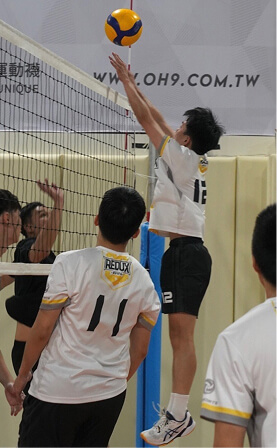
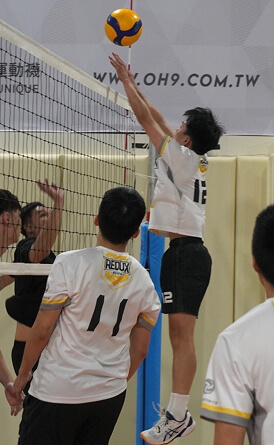
feat: 新增手機版切版

diff --git a/src/sections/root/memory/memory.jsx b/src/sections/root/memory/memory.jsx
@@ -1,7 +1,157 @@
-function Memory() {
+import Image from 'next/image'
+
+import { cn } from '@/lib/utils'
+
+function Memory({ className }) {
   return (
-    <div className="bg-blue-primary">
-      <div className="max-[375px] mx-auto w-full h-[1000px]"></div>
+    <div className={cn('bg-blue-primary', className)}>
+      <div className="relative max-w-[375px] mx-auto w-full h-[1190px]">
+        {/* On the count, every shot is the true of yourself */}
+        <div className="absolute top-[150px] left-1/2 -translate-x-1/2 z-10 w-[271px] h-[82px]">
+          <p className="text-green-primary text-left font-anton font-normal text-[22px] leading-tight">
+            ON
+            &nbsp;&nbsp;&nbsp;&nbsp;&nbsp;&nbsp;&nbsp;&nbsp;&nbsp;&nbsp;&nbsp;&nbsp;&nbsp;&nbsp;&nbsp;
+            THE
+            &nbsp;&nbsp;&nbsp;&nbsp;&nbsp;&nbsp;&nbsp;&nbsp;&nbsp;&nbsp;&nbsp;&nbsp;
+            COUNT,
+          </p>
+          <p className="text-green-primary text-left font-anton font-normal text-[22px] leading-tight">
+            EVERY
+            &nbsp;&nbsp;&nbsp;&nbsp;&nbsp;&nbsp;&nbsp;&nbsp;&nbsp;&nbsp;&nbsp;&nbsp;&nbsp;&nbsp;&nbsp;
+            SHOT
+            &nbsp;&nbsp;&nbsp;&nbsp;&nbsp;&nbsp;&nbsp;&nbsp;&nbsp;&nbsp;&nbsp;&nbsp;
+            IS
+          </p>
+          <p className="text-white text-left font-anton font-normal text-[22px] leading-tight">
+            THE TRUE OF YOURSELF
+          </p>
+        </div>
+
+        {/* 球場上每一次喊聲，都是你・真實的樣子 */}
+        <div className="absolute top-[264px] right-8 z-10 flex flex-row">
+          <p
+            style={{ writingMode: 'vertical-rl' }}
+            className="text-white text-nowrap font-noto-sans-tc font-bold text-xl leading-tight tracking-[0.3em]"
+          >
+            都是你・<span className="text-orange-primary">真實的樣子</span>
+          </p>
+          <p
+            style={{ writingMode: 'vertical-rl' }}
+            className="text-white text-nowrap font-noto-sans-tc font-bold text-xl leading-tight tracking-[0.3em]"
+          >
+            球場上每一次喊聲
+          </p>
+        </div>
+
+        {/* 這裡只留下 敢贏的人 */}
+        <div className="absolute top-[650px] right-[100px] z-10">
+          <p className="text-white text-nowrap font-noto-sans-tc font-extrabold text-[45px] leading-tight">
+            這裡&nbsp;&nbsp;只留下
+          </p>
+          <p className="text-orange-primary text-nowrap font-noto-sans-tc font-extrabold text-[45px] leading-tight">
+            敢贏的人
+          </p>
+        </div>
+
+        {/* Deco-01 */}
+        <div className="absolute top-[460px] left-[146px] z-10">
+          <p className="absolute left-0 top-0 w-[10px] h-[10px] bg-white" />
+          <p className="absolute left-[20px] top-[28px] w-[14px] h-[14px] bg-white" />
+          <p className="absolute z-20 left-[20px] top-[48px] w-[33px] h-[107px] bg-[linear-gradient(160deg,_#71F57C_0%,_rgba(113,245,124,0)_62%)]" />
+          <p className="absolute left-[8px] top-[88px] w-[22px] h-[22px] bg-[#70EEEA]" />
+        </div>
+
+        {/* Deco-02 */}
+        <div className="absolute top-[760px] left-[254px] z-10">
+          <p className="absolute z-10 left-1 top-0 w-[10px] h-[10px] bg-white" />
+          <p className="absolute left-[8px] -top-[20px] w-[25px] h-[58px] bg-[linear-gradient(180deg,_#FA7025_10%,_rgba(250,112,37,0)_62%)]" />
+        </div>
+
+        {/* Deco-03 */}
+        <div className="absolute top-[872px] left-[174px] z-10">
+          <p className="absolute z-10 left-1 top-0 w-[10px] h-[26px] bg-orange-primary" />
+          <p className="absolute z-10 -left-[36px] top-0 w-[35px] h-[26px] bg-orange-primary" />
+          <p className="absolute z-20 -left-[202px] top-0 w-[160px] h-[26px] bg-[linear-gradient(-90deg,_#FA7025_0%,_#60A0FF_45%,_rgba(85,187,227,0)_100%)]" />
+        </div>
+
+        {/* Deco-04 */}
+        <div className="absolute top-[1062px] left-[42px] z-20">
+          <p className="absolute left-0 top-0 w-[14px] h-[14px] bg-white" />
+          <p className="absolute z-20 left-0 top-5 w-[33px] h-[107px] bg-[linear-gradient(160deg,_#60A0FF_0%,_rgba(96,160,255,0)_62%)]" />
+          <p className="absolute -left-[12px] top-[60px] w-[22px] h-[22px] bg-[#70EEEA]" />
+          <p className="absolute left-[26px] top-[90px] w-[10px] h-[10px] bg-white" />
+        </div>
+
+        <div className="aspect-[274/445] w-[150px] absolute z-0 left-0 top-[266px]">
+          <Image
+            src="/images/picture/07.jpg"
+            alt="main-bg"
+            className="object-cover w-full"
+            width={274}
+            height={445}
+          />
+        </div>
+
+        <div className="aspect-square w-[81px] absolute z-0 left-[190px] top-[450px]">
+          <Image
+            src="/images/picture/08.jpg"
+            alt="main-bg"
+            className="object-cover w-full"
+            width={162}
+            height={16}
+          />
+        </div>
+
+        <div className="aspect-[143/204] w-[73px] absolute z-0 left-[290px] top-[512px]">
+          <Image
+            src="/images/picture/09.jpg"
+            alt="main-bg"
+            className="object-cover w-full"
+            width={143}
+            height={204}
+          />
+        </div>
+
+        <div className="aspect-[275/138] w-[275px] absolute z-0 left-1.5 top-[750px]">
+          <Image
+            src="/images/picture/10.jpg"
+            alt="main-bg"
+            className="object-cover w-full"
+            width={275}
+            height={138}
+          />
+        </div>
+
+        <div className="aspect-[439/277] w-[218px] absolute z-10 left-[64px] top-[980px]">
+          <Image
+            src="/images/picture/11.jpg"
+            alt="main-bg"
+            className="object-cover w-full"
+            width={439}
+            height={277}
+          />
+        </div>
+
+        <div className="aspect-[89/115] w-[89px] absolute z-0 left-[264px] top-[1100px]">
+          <Image
+            src="/images/picture/12.jpg"
+            alt="main-bg"
+            className="object-cover w-full"
+            width={89}
+            height={115}
+          />
+        </div>
+
+        <div className="aspect-square w-[110px] absolute z-0 left-[128px] top-[1160px]">
+          <Image
+            src="/images/picture/13.jpg"
+            alt="main-bg"
+            className="object-cover w-full"
+            width={220}
+            height={220}
+          />
+        </div>
+      </div>
     </div>
   )
 }

diff --git a/src/sections/root/address/address.jsx b/src/sections/root/address/address.jsx
@@ -6,8 +6,8 @@ import { InfoDate, InfoDestination, InfoDistance, InfoDuration } from './'
 function Address() {
   return (
     <section className="root bg-orange-primary">
-      <div className="relative pt-[560px] max-w-[375px] mx-auto">
-        <div className="absolute top-[148px] left-7 w-[157px] aspect-[314/206]">
+      <div className="relative pt-[500px] pb-5 max-w-[375px] mx-auto">
+        <div className="absolute top-[120px] left-7 w-[157px] aspect-[314/206]">
           <Image
             src="/images/picture/05.jpg"
             alt="picture-05"
@@ -16,7 +16,7 @@ function Address() {
           />
         </div>
 
-        <div className="absolute z-10 top-44 right-7 w-[145px] aspect-[290/346]">
+        <div className="absolute z-10 top-[150px] right-7 w-[145px] aspect-[290/346]">
           <Image
             src="/images/picture/04.jpg"
             alt="picture-04"
@@ -25,7 +25,7 @@ function Address() {
           />
         </div>
 
-        <div className="absolute top-[300px] left-7 w-[277px] aspect-[554/284]">
+        <div className="absolute top-[266px] left-7 w-[277px] aspect-[554/284]">
           <Image
             src="/images/picture/03.jpg"
             alt="picture-04"
@@ -34,13 +34,11 @@ function Address() {
           />
         </div>
 
-        <div className="absolute top-[490px] left-12 w-[92px] aspect-[185/448]">
-          <Image
-            src="/images/particle-01.png"
-            alt="particle-01"
-            width={185}
-            height={448}
-          />
+        <div className="absolute top-[440px] left-[48px] z-10">
+          <p className="absolute left-[34px] top-[32px] w-4 h-4 bg-white" />
+          <p className="absolute z-20 left-0 top-[56px] w-[52px] h-[107px] bg-[linear-gradient(160deg,_#71F57C_0%,_rgba(113,245,124,0)_62%)]" />
+          <p className="absolute left-[38px] top-[106px] w-[28px] h-[28px] bg-[#70EEEA]" />
+          <p className="absolute left-[80px] top-0 w-[12px] h-[12px] bg-white" />
         </div>
 
         {/* 板橋 */}

diff --git a/src/sections/root/slogan/slogan.jsx b/src/sections/root/slogan/slogan.jsx
@@ -1,8 +1,10 @@
 import Image from 'next/image'
 
-function Slogan() {
+import { cn } from '@/lib/utils'
+
+function Slogan({ className }) {
   return (
-    <div className="bg-white">
+    <div className={cn('bg-white', className)}>
       <div className="relative max-w-[375px] mx-auto 1440:max-w-[1440px]">
         {/* Word - 不僅要參加，更要留下 */}
         <div className="absolute top-6 left-9 1440:top-12 1440:left-28">

diff --git a/src/app/(index)/page.jsx b/src/app/(index)/page.jsx
@@ -17,10 +17,8 @@ export default function Root() {
         </ClientOnlyView>
       </div>
       <Main />
-      <div className="relative z-10">
-        <Slogan />
-      </div>
-      <Memory />
+      <Slogan className="relative z-20" />
+      <Memory className="relative z-10" />
       <Address />
       <Declaration />
       <InviteCard />
